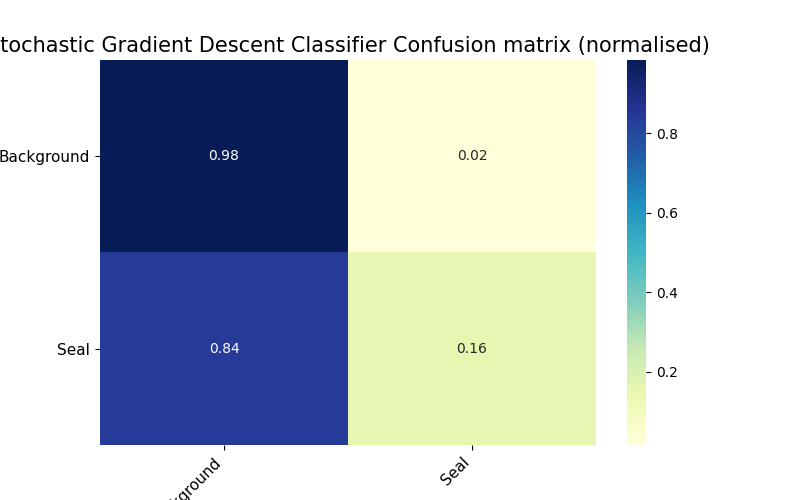
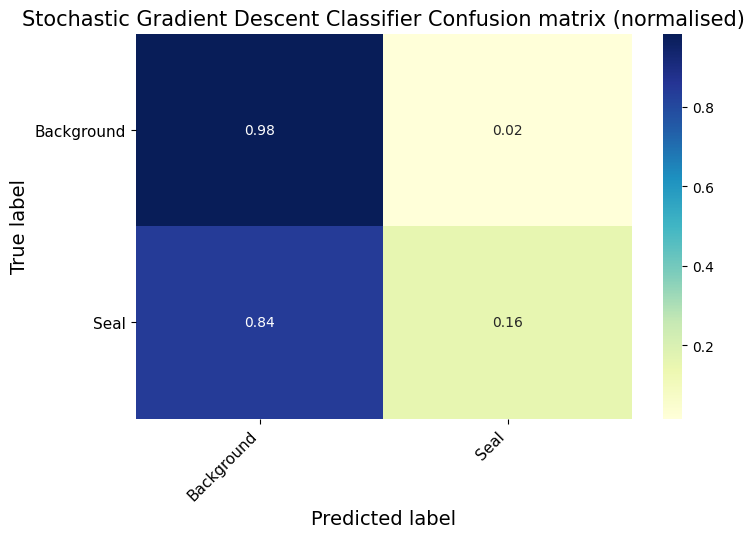
Add more evaluation scores

diff --git a/src/classifiers.py b/src/classifiers.py
@@ -4,7 +4,8 @@ import pandas as pd
 from pyspin.spin import Box1, make_spin
 import seaborn as sns
 from sklearn.linear_model import LogisticRegression, SGDClassifier
-from sklearn.metrics import accuracy_score, confusion_matrix
+from sklearn.metrics import accuracy_score, classification_report, confusion_matrix, f1_score, precision_score, \
+    recall_score
 from sklearn.model_selection import cross_val_predict
 from sklearn.neural_network import MLPClassifier
 from sklearn.svm import LinearSVC, SVC
@@ -22,6 +23,8 @@ class Classifier:
         self.X = X
         self.y = y
         self.ground_truth = ground_truth
+        self.folds = 3
+        self.predictions = None
 
         if model == "sgd":
             self.clf = SGDClassifier(**kwargs, max_iter=1000, tol=1e-3)
@@ -41,16 +44,33 @@ class Classifier:
     def fit_classifier(self):
         self.clf.fit(self.X, self.y)
 
-    @make_spin(Box1, "Performing k-fold cross validation...")
-    def k_fold_cross_validation(self, folds=3):
-        clf_accuracy_predictions = cross_val_predict(self.clf, self.X, self.y, cv=folds)
+    @make_spin(Box1, "Making predictions...")
+    def single_prediction(self):
+        self.predictions = self.clf.predict(self.X)
 
-        cm = confusion_matrix(self.ground_truth, clf_accuracy_predictions)
+    @make_spin(Box1, "Performing k-fold cross validation...")
+    def k_fold_cross_validation(self):
+        self.predictions = cross_val_predict(self.clf, self.X, self.y, cv=self.folds)
+
+    def evaluate_classifier(self):
+        accuracy = accuracy_score(self.ground_truth, self.predictions)
+        print("Average accuracy over {} folds: {}%".format(self.folds, round(accuracy * 100, 2)))
+
+        precision = precision_score(self.ground_truth, self.predictions, average="binary")
+        print("Precision: " + str(precision))
+
+        recall = recall_score(self.ground_truth, self.predictions, average="binary")
+        print("Recall: " + str(recall))
+
+        f1 = f1_score(self.ground_truth, self.predictions, average="binary")
+        print("F1: " + str(f1))
+
+        scores_report = classification_report(self.ground_truth, self.predictions)
+        print(scores_report)
+
+        cm = confusion_matrix(self.ground_truth, self.predictions)
         _plot_pretty_confusion_matrix(cm, ["Background", "Seal"], False)
         _plot_pretty_confusion_matrix(cm, ["Background", "Seal"], True)
-
-        accuracy = accuracy_score(self.ground_truth, clf_accuracy_predictions)
-        print("Average accuracy over {} folds: {}%".format(folds, round(accuracy * 100, 2)))
 
 
 def _plot_pretty_confusion_matrix(cm, labels: list, is_normalised: bool) -> None:

diff --git a/src/main.py b/src/main.py
@@ -120,6 +120,7 @@ def train_classification_models(X, y, ground_truth):
     # Training pipeline.
     clf.fit_classifier()
     clf.k_fold_cross_validation()
+    clf.evaluate_classifier()
 
     # Print training runtime.
     print_runtime(round(time.time() - start_time, 2))

diff --git a/src/helpers.py b/src/helpers.py
@@ -23,7 +23,7 @@ def print_runtime(runtime: float) -> None:
 
 
 def save_plot(title):
-    plt.savefig("../results/{}.png".format(title))
+    plt.savefig("../results/{}.png".format(title), bbox_inches='tight')
 
 
 def save_model(model, model_type):
